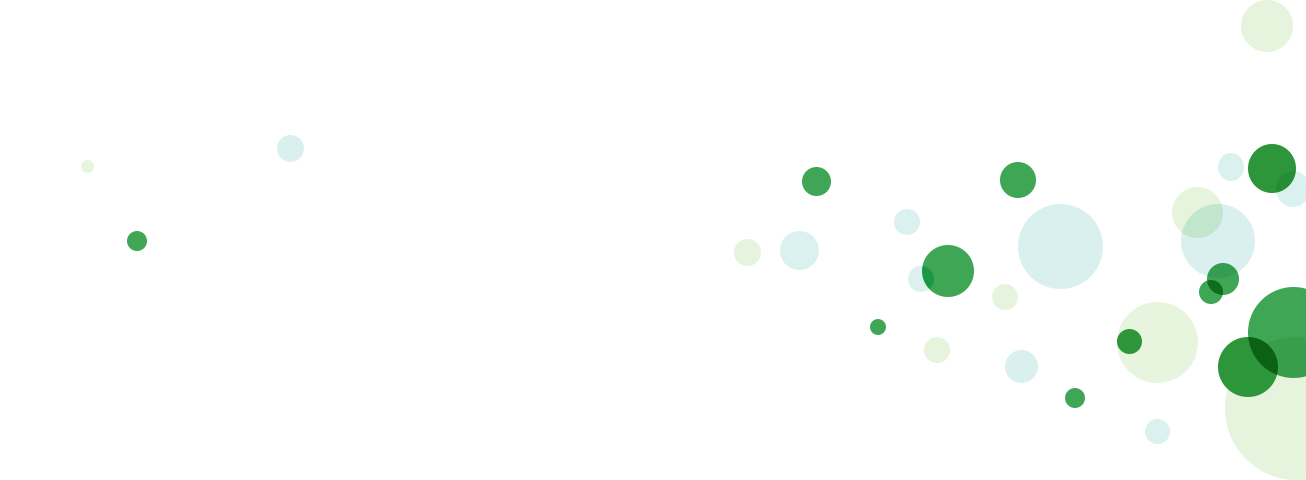
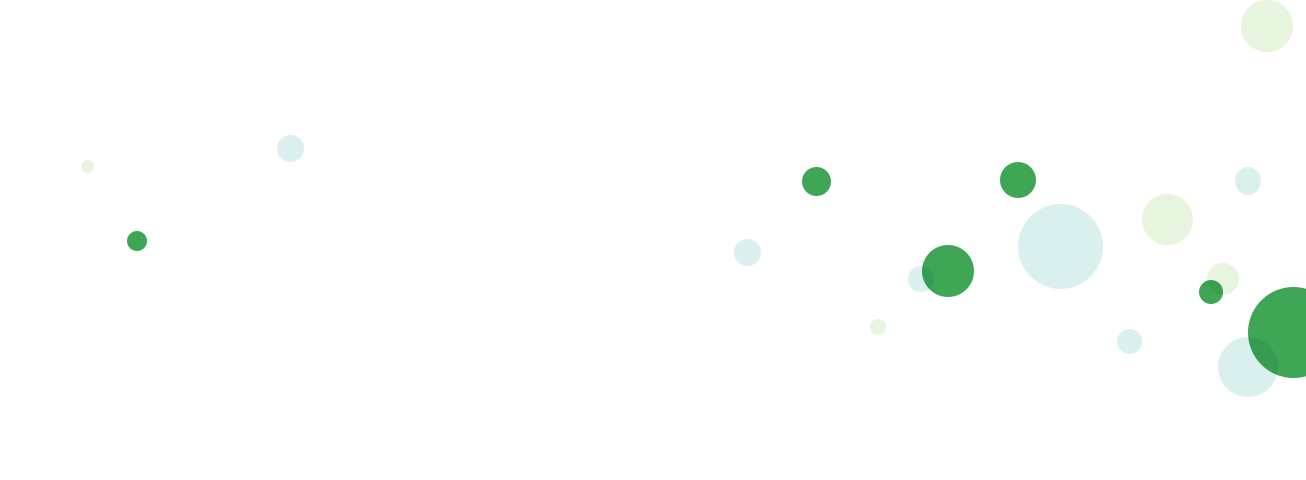
m2 背景圖調整

diff --git a/css/style.css b/css/style.css
@@ -9272,8 +9272,21 @@ img {
     position: relative;
   }
   .mp .main .mixDeco2 {
+    position: relative;
+  }
+  .mp .main .mixDeco2:before {
+    content: "";
+    position: absolute;
+    width: 100%;
+    height: 100%;
     background: url(../images/bg-mp-deco-3-L1.png) right 50% no-repeat;
     background-attachment: fixed;
+    z-index: -1;
+  }
+  @media (max-width: 992px) {
+    .mp .main .mixDeco2 {
+      background: rgba(255, 255, 255, 0.9);
+    }
   }
   .mp .main .deco {
     position: absolute;
